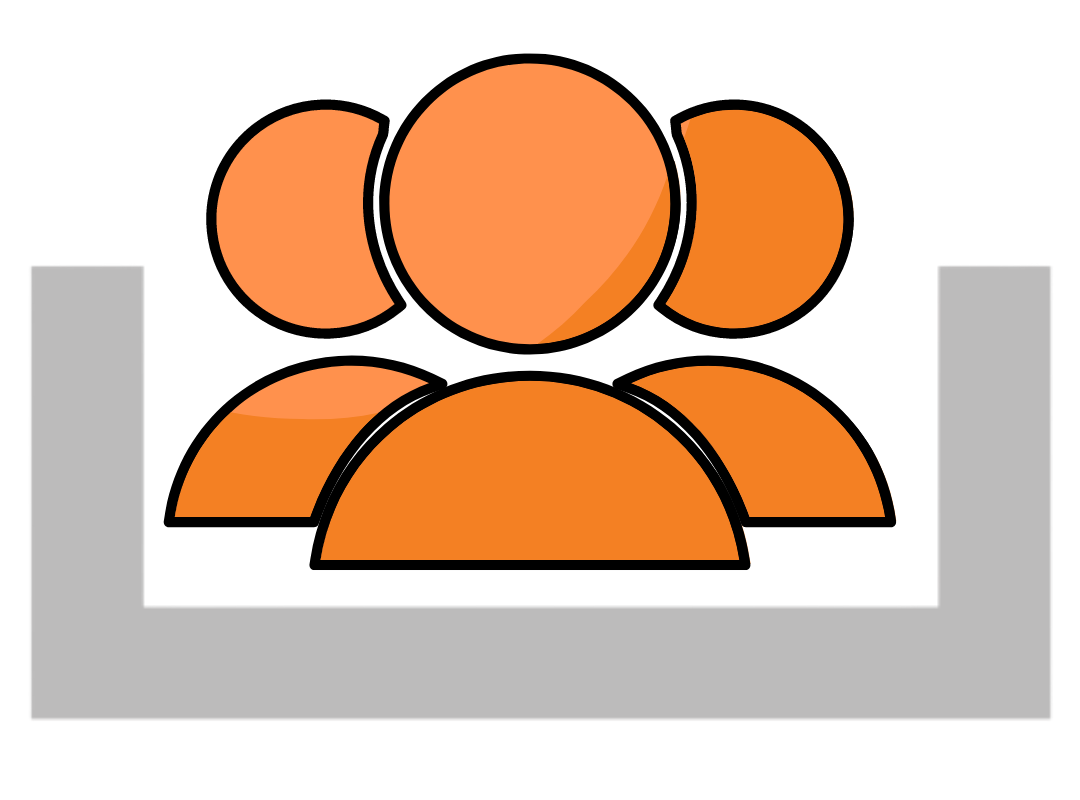
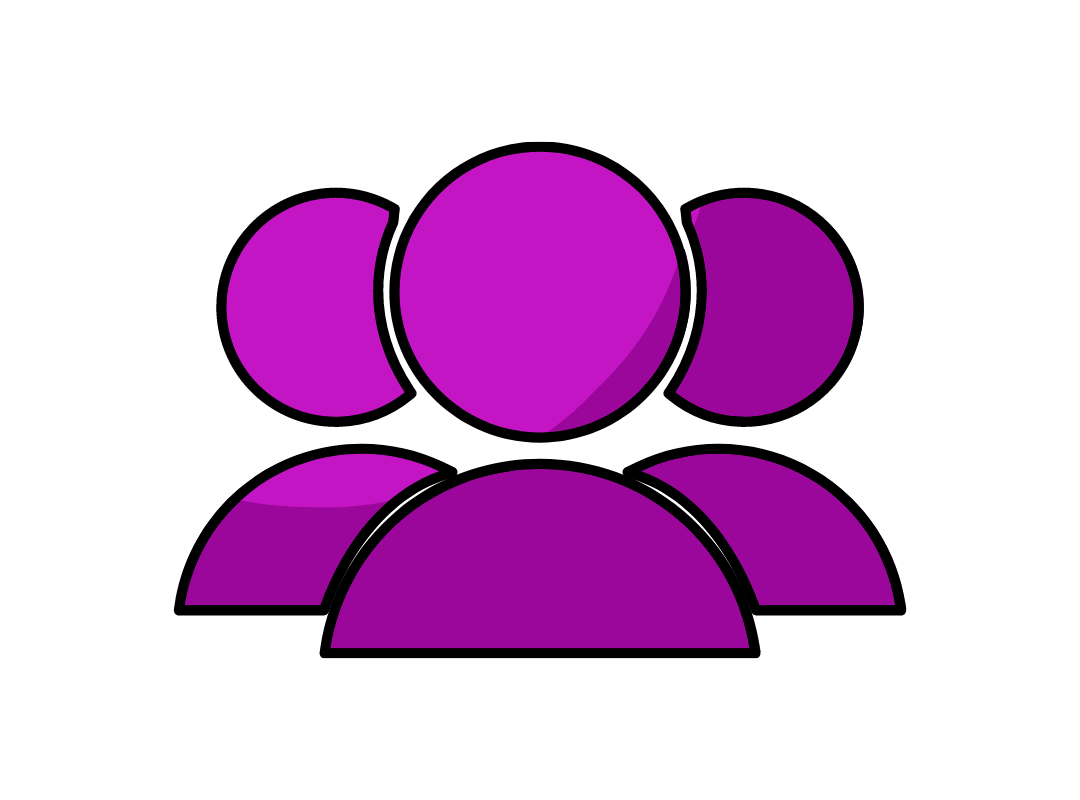
changing color theme

diff --git a/src/dashboard/Home.js b/src/dashboard/Home.js
@@ -311,7 +311,7 @@ export default function Home(props) {
             <div className="p-1 shadow-xl  rounded-2xl">
               <div className="block p-6 white-glassmorphism border sm:p-8 rounded-xl">
                 <div className="mt-7 sm:pr-8">
-                  <h5 className="text-xl font-bold heading text-orange-300">
+                  <h5 className="text-xl font-bold heading text-[#c415c4]">
                     {total}
                   </h5>
                   <p className="mt-2 text-sm desc text-gray-300">
@@ -326,7 +326,7 @@ export default function Home(props) {
             <div className="p-1 shadow-xl  rounded-2xl">
               <div className="block p-6 white-glassmorphism    border sm:p-8 rounded-xl">
                 <div className="mt-7 sm:pr-8">
-                  <h5 className="text-xl font-bold heading text-orange-300">
+                  <h5 className="text-xl font-bold heading text-[#c415c4]">
                     {answered.count}
                   </h5>
 
@@ -342,7 +342,7 @@ export default function Home(props) {
             <div className="p-1 shadow-xl  rounded-2xl">
               <div className="block p-6 white-glassmorphism    border sm:p-8 rounded-xl">
                 <div className="mt-7 sm:pr-8">
-                  <h5 className="text-xl font-bold heading text-orange-300">
+                  <h5 className="text-xl font-bold heading text-[#c415c4]">
                     {unanswered.count}
                   </h5>
 
@@ -358,7 +358,7 @@ export default function Home(props) {
             <div className="p-1 shadow-xl  rounded-2xl">
               <div className="block p-6 white-glassmorphism    border sm:p-8 rounded-xl">
                 <div className="mt-7 sm:pr-8" style={{ minWidth: 201 }}>
-                  <h5 className="text-xl font-bold heading text-orange-300">
+                  <h5 className="text-xl font-bold heading text-[#c415c4]">
                     {noAnswers.count}
                   </h5>
 
@@ -388,7 +388,7 @@ export default function Home(props) {
             </div>
           </div>
         </div>
-        <h1 className="heading text-orange-300 text-xl mt-5 mb-3">Facts</h1>
+        <h1 className="heading text-[#c415c4] text-xl mt-5 mb-3">Facts</h1>
 
         <div className="flex-col space-y-5 mt-3 mb-10">
           <div className="p-1 shadow-xl  rounded-2xl">
@@ -396,7 +396,7 @@ export default function Home(props) {
               <div className=" sm:pr-8">
                 <p className="mt-2 text-sm desc text-gray-300">
                   Out of all the questions,
-                  <span className="text-orange-300 mx-1">
+                  <span className="text-[#c415c4] mx-1">
                     {noAnswers.percentage} %
                   </span>
                   have no answers.
@@ -409,7 +409,7 @@ export default function Home(props) {
               <div className=" sm:pr-8">
                 <p className="mt-2 text-sm desc text-gray-300">
                   Out of all the questions,
-                  <span className="text-orange-300 mx-1">
+                  <span className="text-[#c415c4] mx-1">
                     {unanswered.percentage} %
                   </span>
                   have answers but none of them is accepted.
@@ -422,25 +422,21 @@ export default function Home(props) {
               <div className=" sm:pr-8">
                 <p className="mt-2 text-sm desc text-gray-300">
                   The total volume of questions for this tag is
-                  <span className="text-orange-300 ml-1">{total}</span> which
+                  <span className="text-[#c415c4] ml-1">{total}</span> which
                   makes this tag
                   {total < 100 && (
-                    <span className="text-orange-300 ml-1">less popular.</span>
+                    <span className="text-[#c415c4] ml-1">less popular.</span>
                   )}
                   {total >= 100 && total < 1000 && (
-                    <span className="text-orange-300 ml-1">
-                      mildly popular.
-                    </span>
+                    <span className="text-[#c415c4] ml-1">mildly popular.</span>
                   )}
                   {total >= 1000 && total < 5000 && (
-                    <span className="text-orange-300 ml-1">
+                    <span className="text-[#c415c4] ml-1">
                       moderately popular.
                     </span>
                   )}
                   {total >= 5000 && total < 10000 && (
-                    <span className="text-orange-300 ml-1">
-                      highly popular.
-                    </span>
+                    <span className="text-[#c415c4] ml-1">highly popular.</span>
                   )}
                   {total >= 10000 && (
                     <span className="text-orange-300 ml-1">

diff --git a/src/dashboard/Timeline.js b/src/dashboard/Timeline.js
@@ -438,7 +438,7 @@ export default function Timeline(props) {
             <Tab
               className={({ selected }) =>
                 selected
-                  ? "glass p-2 text-orange-300 border border-orange-300 desc"
+                  ? "glass p-2 text-[#c415c4] border border-[#c415c4] desc"
                   : "white-glassmorphism p-2 text-gray-300 desc"
               }
             >
@@ -447,7 +447,7 @@ export default function Timeline(props) {
             <Tab
               className={({ selected }) =>
                 selected
-                  ? "glass p-2 text-orange-300 border border-orange-300 desc"
+                  ? "glass p-2 text-[#c415c4] border border-[#c415c4] desc"
                   : "white-glassmorphism p-2 text-gray-300 desc"
               }
             >
@@ -456,7 +456,7 @@ export default function Timeline(props) {
             <Tab
               className={({ selected }) =>
                 selected
-                  ? "glass p-2 text-orange-300 border border-orange-300 desc"
+                  ? "glass p-2 text-[#c415c4] border border-[#c415c4] desc"
                   : "white-glassmorphism p-2 text-gray-300 desc"
               }
             >
@@ -558,7 +558,7 @@ export default function Timeline(props) {
                       </svg>
                     ) : (
                       <svg
-                        className="w-6 h-6 text-red-300"
+                        className="w-6 h-6 text-red-500"
                         fill="none"
                         stroke="currentColor"
                         viewBox="0 0 24 24"
@@ -586,7 +586,7 @@ export default function Timeline(props) {
             <div className="p-1 shadow-xl  rounded-2xl">
               <div className="block p-6 white-glassmorphism    border sm:p-8 rounded-xl">
                 <div className="sm:pr-8">
-                  <h5 className="text-md font-bold heading text-orange-300">
+                  <h5 className="text-md font-bold heading text-[#c415c4]">
                     {createdAt ? new Date(createdAt).toDateString() : ""}
                   </h5>
 
@@ -602,7 +602,7 @@ export default function Timeline(props) {
             <div className="p-1 shadow-xl  rounded-2xl">
               <div className="block p-6 white-glassmorphism    border sm:p-8 rounded-xl">
                 <div className="sm:pr-8">
-                  <h5 className="text-md font-bold heading text-orange-300">
+                  <h5 className="text-md font-bold heading text-[#c415c4]">
                     {createdAt
                       ? (
                           new Date().getFullYear() -
@@ -623,7 +623,7 @@ export default function Timeline(props) {
     )
   ) : (
     <div className="desc text-gray-300 flex justify-center mt-60">
-    You have not added any tag yet
-  </div>
+      You have not added any tag yet
+    </div>
   );
 }

diff --git a/src/dashboard/Settings.js b/src/dashboard/Settings.js
@@ -53,7 +53,7 @@ export default function Settings(props) {
     <div className="flex flex-col">
       <div className="flex justify-between">
         <div>
-          <h1 className="heading text-orange-300 text-xl mt-12">Tags</h1>
+          <h1 className="heading text-[#c415c4] text-xl mt-12">Tags</h1>
         </div>
       </div>
 
@@ -95,18 +95,18 @@ export default function Settings(props) {
       <div className="mt-10">
         <input
           type="text"
-          className="glass p-3 accent-orange-300 text-gray-300"
+          className="glass p-3 accent-[#c415c4] text-gray-300"
           placeholder="Enter tag"
           ref={inputRef}
         />
         <button
           onClick={() => addFavourite()}
-          className="ml-3 glass border desc p-3 text-gray-300 border-gray-300 hover:bg-orange-400 hover:text-black"
+          className="ml-3 glass border desc p-3 text-gray-300 border-gray-300 hover:bg-[#c415c4] hover:text-black"
         >
           Add Tag
         </button>
       </div>
-      <h1 className="heading text-orange-300 mt-20 text-xl">
+      <h1 className="heading text-[#c415c4] mt-20 text-xl">
         Storage Preferences
       </h1>
       <br />
@@ -122,7 +122,7 @@ export default function Settings(props) {
             clearStorage();
           }
         }}
-        className="mt-10 glass border text-lg border-gray-300 desc p-3 text-gray-300 w-40 hover:bg-orange-400 hover:text-black"
+        className="mt-10 glass border text-lg border-gray-300 desc p-3 text-gray-300 w-40 hover:bg-[#c415c4] hover:text-black"
       >
         Clear storage
       </button>

diff --git a/src/dashboard/Todos.js b/src/dashboard/Todos.js
@@ -109,13 +109,13 @@ export default function Todos(props) {
                 >
                   <div className="flex justify-between">
                     <div className=" sm:pr-8 flex-col">
-                      <p className="mt-2 text-sm desc text-orange-300">
+                      <p className="mt-2 text-sm desc text-gray-300">
                         {question.title}
                       </p>
                     </div>
                     {type === "unanswered" && (
                       <div className=" sm:pr-8 flex-col">
-                        <p className="mt-2 text-sm desc text-gray-300">
+                        <p className="mt-2 text-sm desc text-[#c415c4]">
                           Answer count: {question.answer_count}
                         </p>
                       </div>
@@ -126,7 +126,7 @@ export default function Todos(props) {
                     <div className=" sm:pr-8 flex-col">
                       <a
                         href={question.owner.link}
-                        className="mt-2 text-sm desc text-gray-300"
+                        className="mt-2 text-sm desc text-[#c415c4]"
                       >
                         by Author: {question.owner.display_name}
                       </a>
@@ -177,7 +177,7 @@ export default function Todos(props) {
     </div>
   ) : (
     <div className="desc text-gray-300 flex justify-center mt-60">
-    You have not added any tag yet
-  </div>
+      You have not added any tag yet
+    </div>
   );
 }

diff --git a/src/index.css b/src/index.css
@@ -23,7 +23,7 @@
   background-image: 
     radial-gradient(at 0% 0%, rgb(24, 27, 35) 0, transparent 50%), 
     radial-gradient(at 40% 0%, rgba(236, 72, 154, 0.26) 0, transparent 40%), 
-    radial-gradient(at 130% 0%, rgba(212, 113, 0, 0.692) 0, transparent 50%);
+    radial-gradient(at 130% 0%, rgba(236, 72, 154, 0.26) 0, transparent 50%);
 }
 
 .gradient-bg-services {
